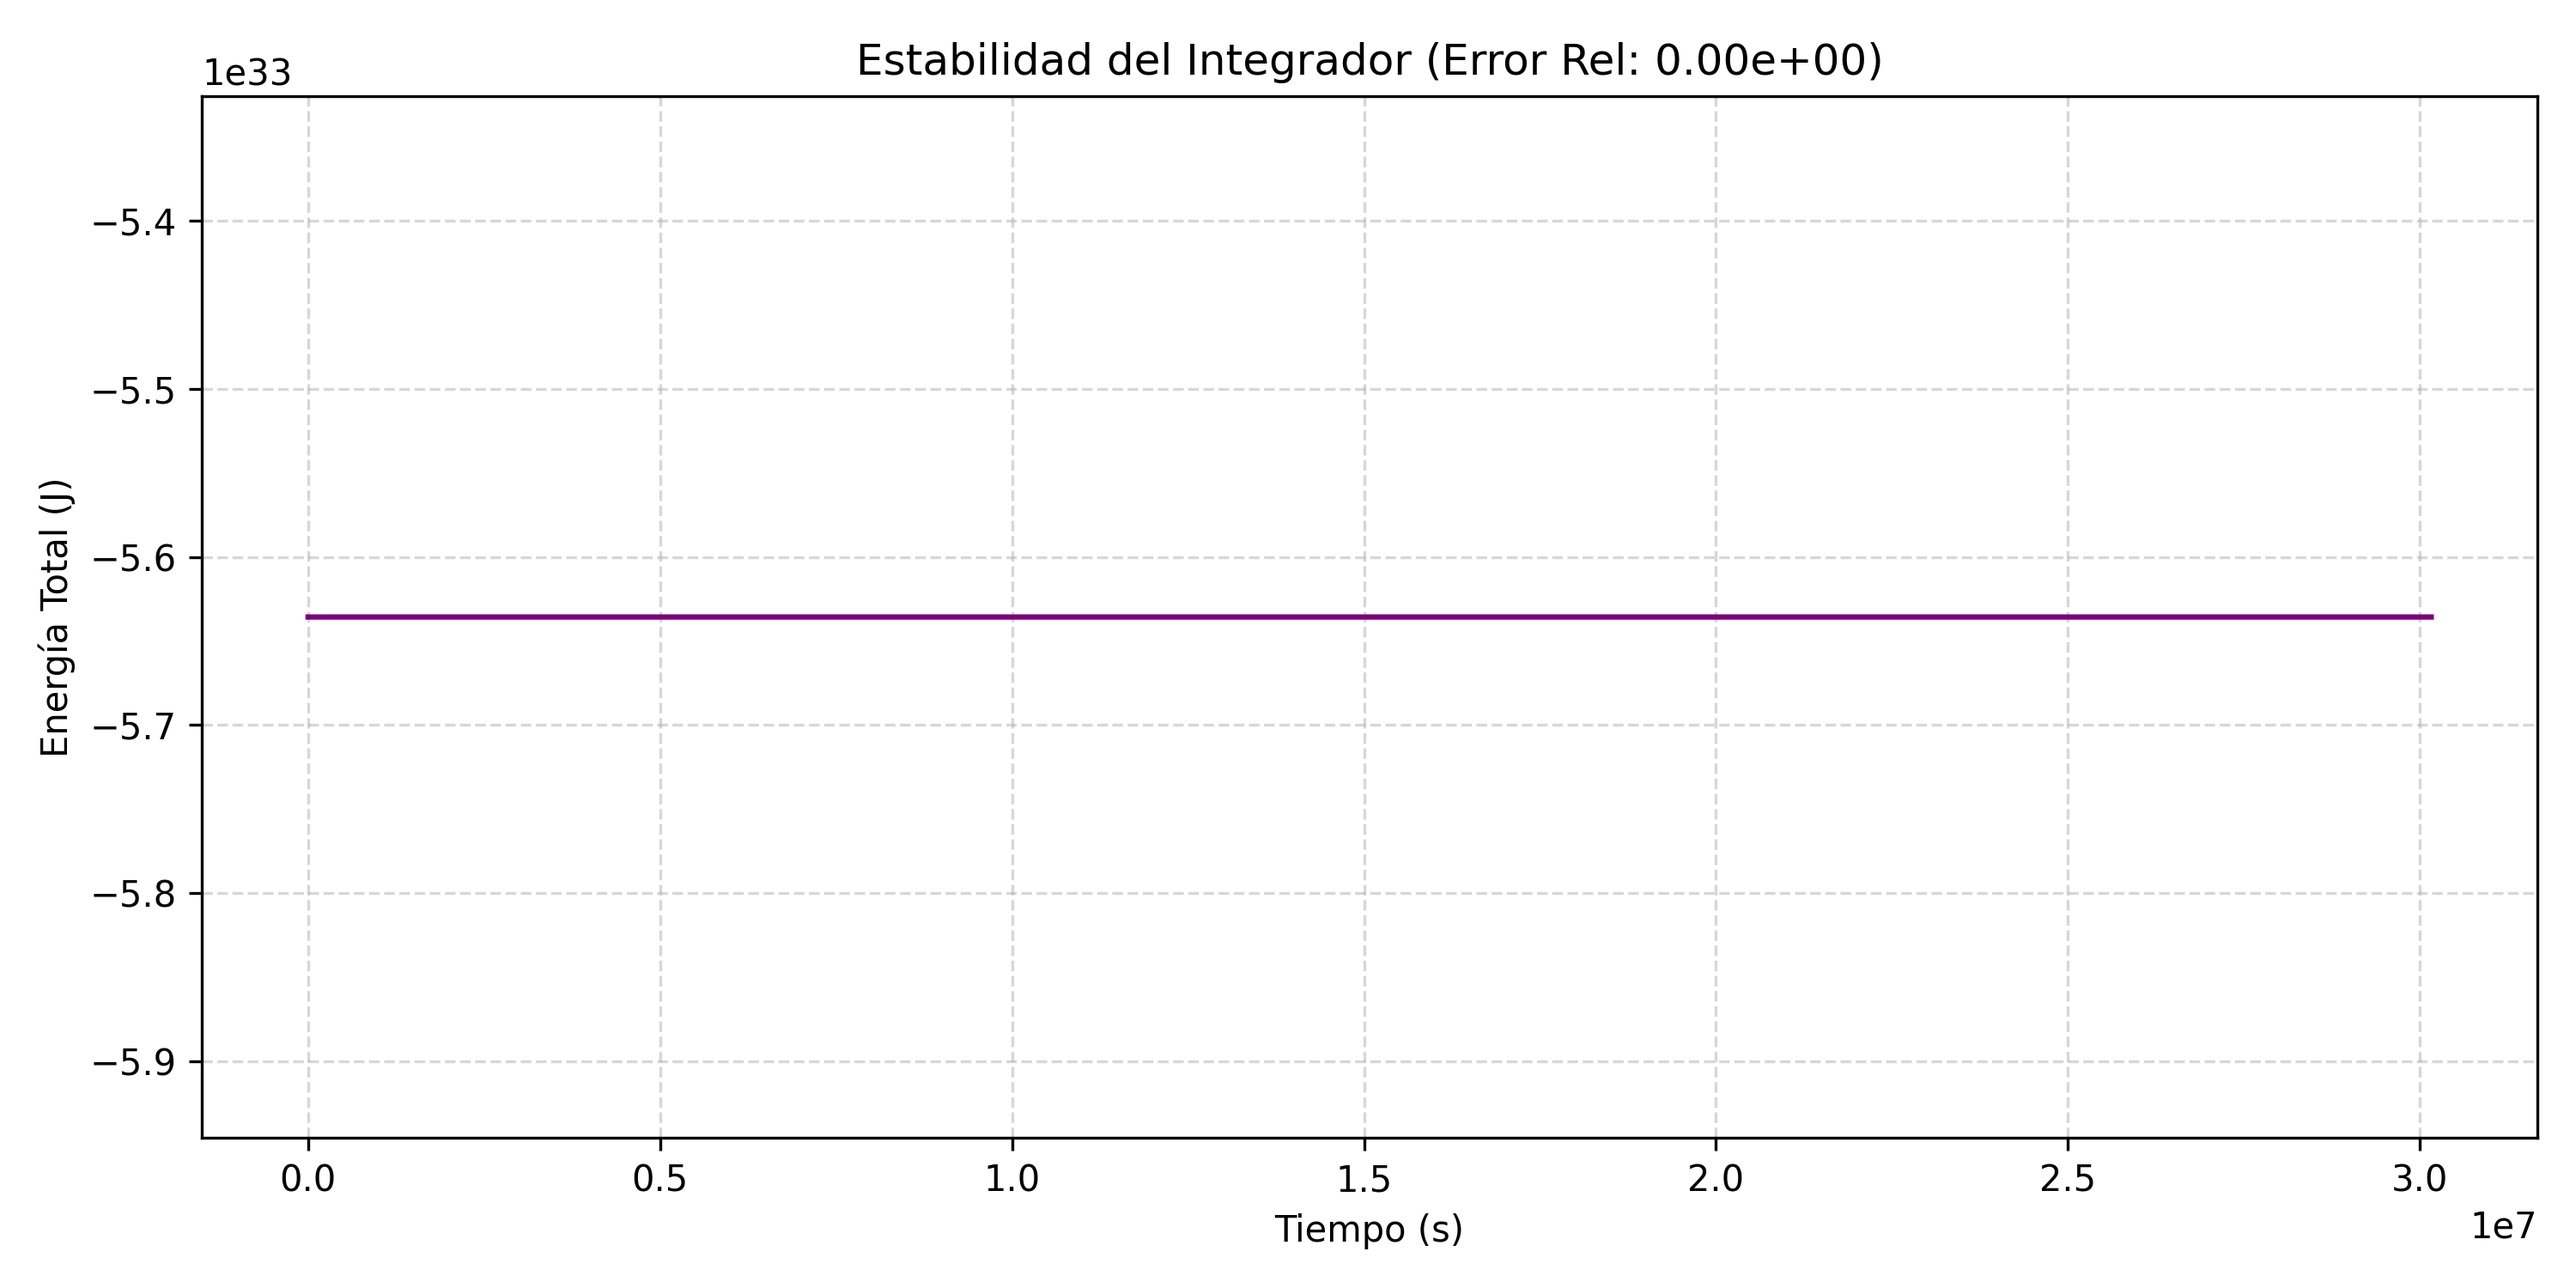
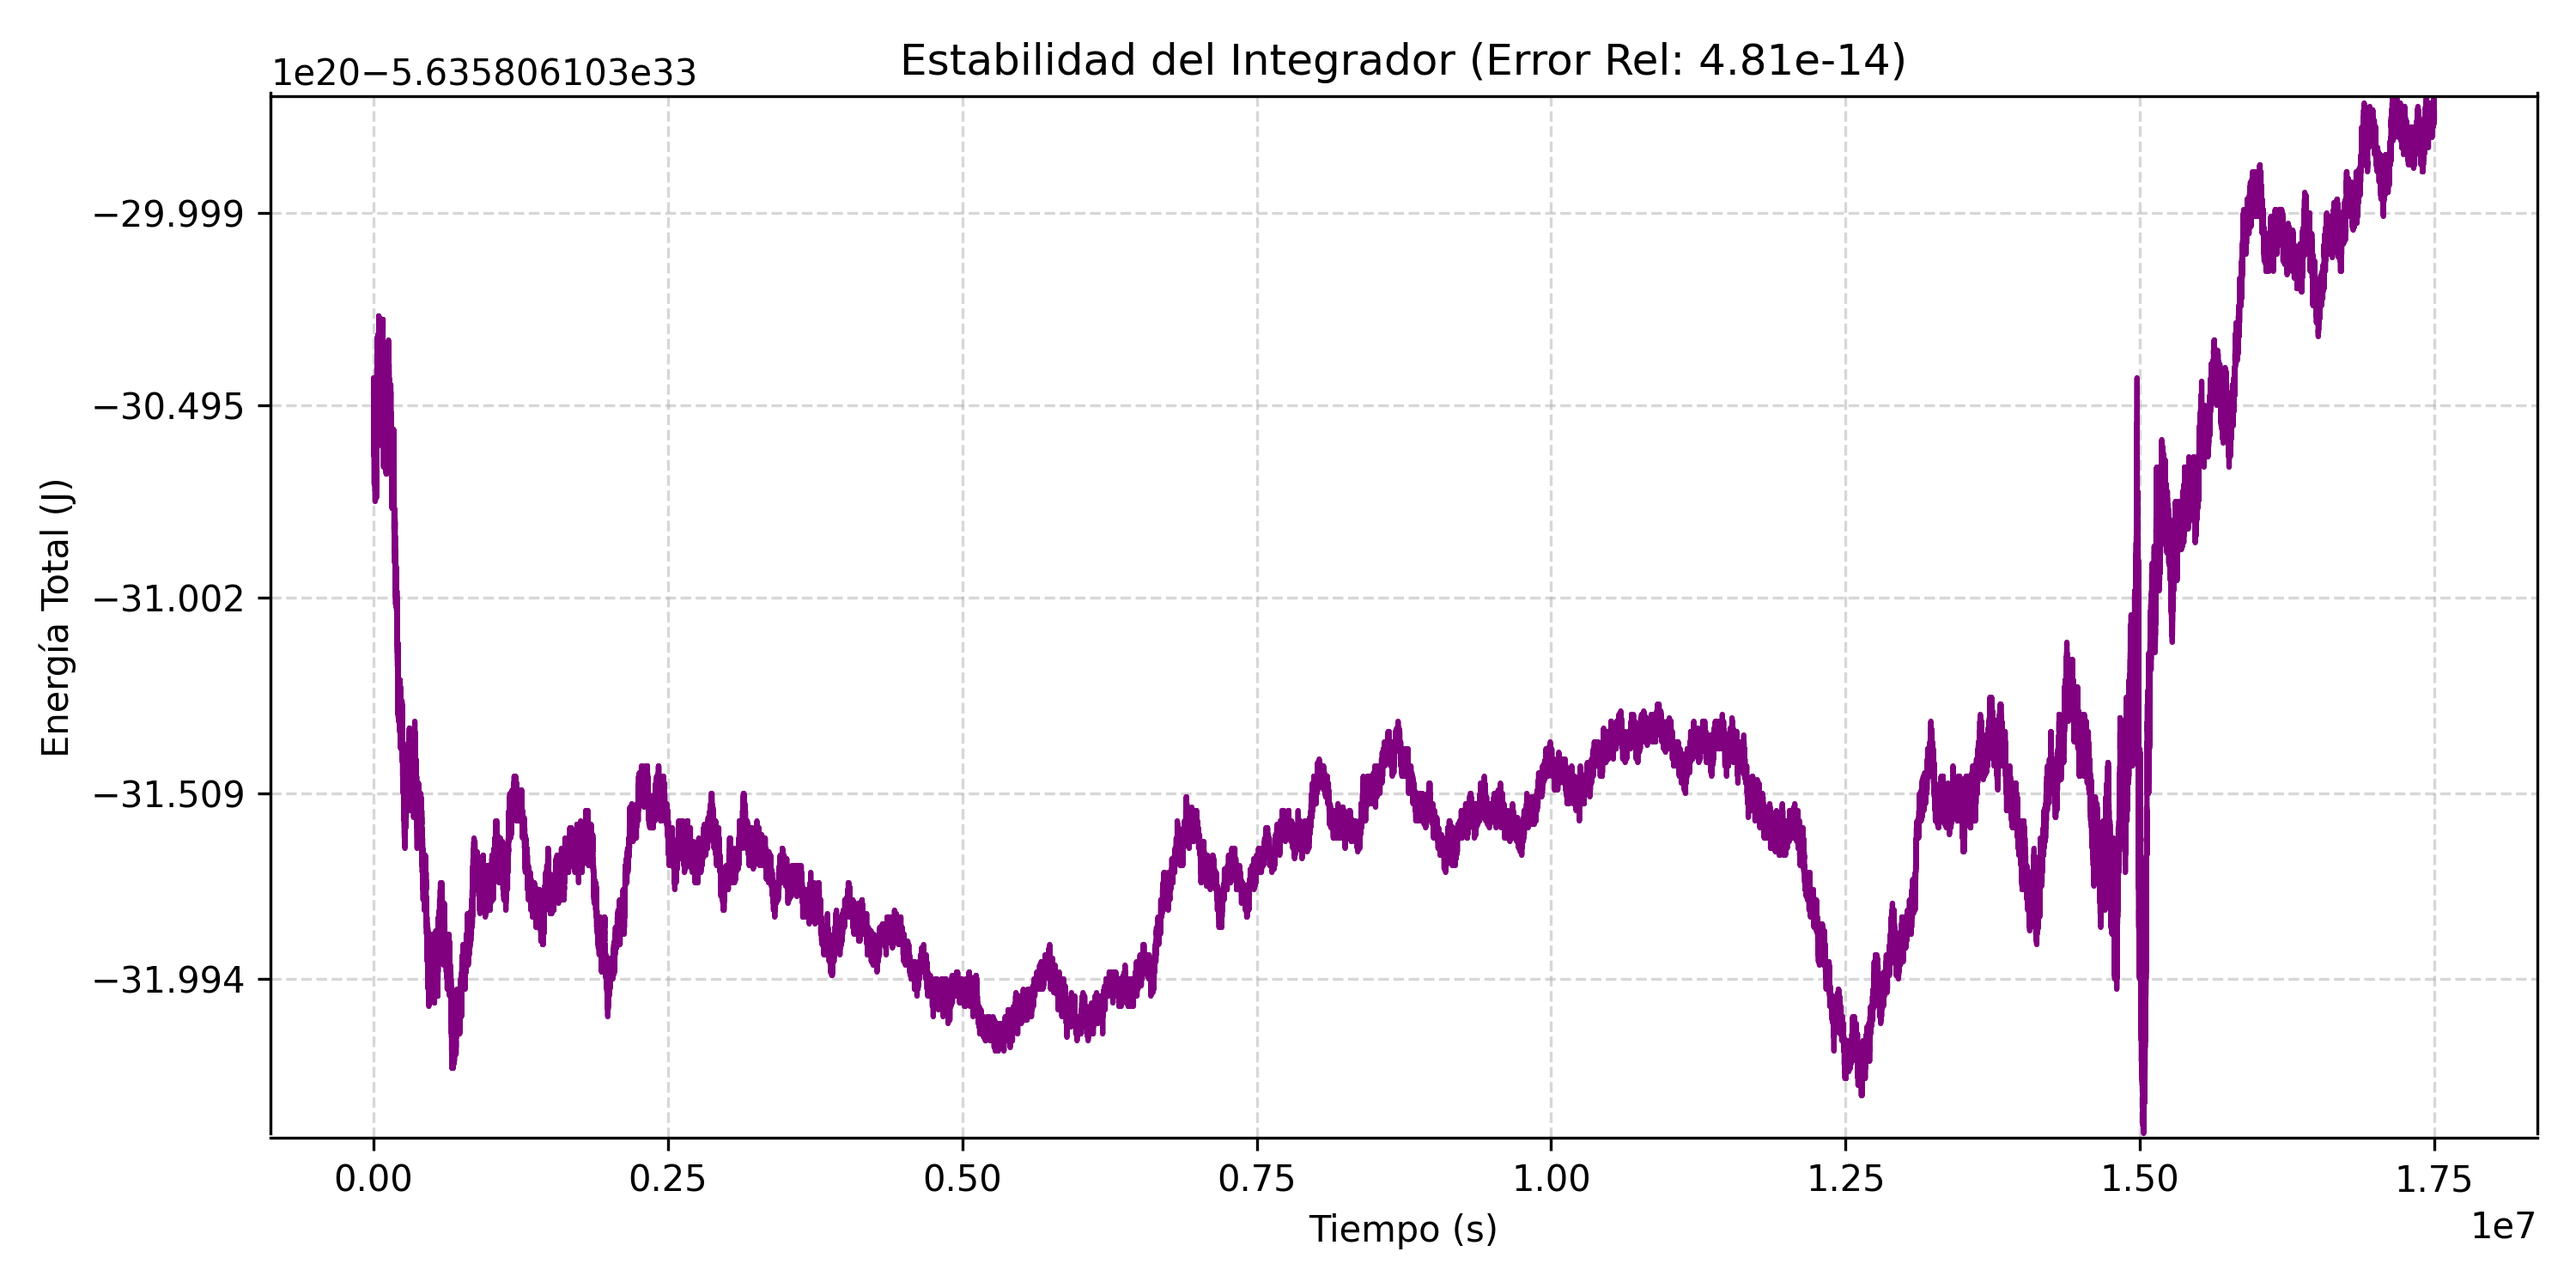
add animation

diff --git a/src/integrator.py b/src/integrator.py
@@ -97,18 +97,19 @@ def calculoOrbitas(initPos,initVel,masas,tiempoSim,dtFactor,G,debug=False):
         velActual = extraerVelocidadesVectorEstado(vectorEstado,dim,N)
         posActual = extraerPosicionesVectorEstado(vectorEstado,dim,N)
         velNaveNorm = (velActual[-1] @ velActual[-1])**.5
-        if velNaveNorm > 1e-9:
-            dt = dtFactor*distanciaMinimaUltimoCuerpo(posActual)#/velNaveNorm
+        rmin = distanciaMinimaUltimoCuerpo(posActual)
+        if rmin*dtFactor > 1e2:
+            dt = dtFactor*rmin/velNaveNorm
         else:
             dt = 100.0
         nextPos, nextVel = stepRungeKutta4(posActual,velActual,masas,G,dt)
         stepNumber += 1
         timePassed += dt
-        if debug and stepNumber%1e3==0:
+        if debug and stepNumber%1e2==0:
             print(
-                f"\rtSim: {int(timePassed/3600):7}h.\ttimeStep:{int(stepNumber/1000):7}e3.\tdt: {int(dt):10}", 
+                f"\rtSim: {int(timePassed/3600):7}h.    timeStep:{int(stepNumber/100):7}e2.    rmin: {int(rmin):15}.    shipVel:{int(velNaveNorm):15}", 
                 end="")
-        # H = calculoHamiltoniano(nextPos,nextVel,masas,G)
+        H = calculoHamiltoniano(nextPos,nextVel,masas,G)
         naveH = calculoHamiltonianoNave(nextPos,nextVel,masas,G)
         historial.append(
             [timePassed,H,naveH, *nextPos.flatten(), *nextVel.flatten()]
@@ -125,9 +126,6 @@ def graficarTrayectorias(historial, nombres=None, assets="assets/"):
     """
     dim = 3
     total_cols = historial.shape[1]
-    
-    # AJUSTE DE INDICE: 
-    # Restamos 3 columnas iniciales: Tiempo, H_total, H_nave
     n_cuerpos = int((total_cols - 3) / 2 / dim)
 
     if nombres is None:
@@ -140,7 +138,6 @@ def graficarTrayectorias(historial, nombres=None, assets="assets/"):
     colores = ['black', 'orange', 'blue', 'red', 'gray', 'green', 'purple']
 
     for i in range(n_cuerpos):
-        # El índice de datos empieza ahora en 3
         idx_x = 3 + i * dim
         idx_y = idx_x + 1
         
@@ -148,7 +145,6 @@ def graficarTrayectorias(historial, nombres=None, assets="assets/"):
         y = historial[:, idx_y]
         
         color = colores[i % len(colores)]
-        # Estilo: la nave (último cuerpo) va en punteado
         es_nave = (i == n_cuerpos - 1)
         estilo = '--' if es_nave else '-'
         grosor = 1.5 if es_nave else 2
@@ -172,20 +168,87 @@ def graficarTrayectorias(historial, nombres=None, assets="assets/"):
     print(f"Guardado: {fichero_orbitas}")
     # plt.show() # -----------------------------------------------------------------
 
-    # Extraer datos comunes de tiempo
     tiempo = historial[:, 0]
+
+    # ==========================================
+    # GRÁFICA: TRAYECTORIAS ESPACIO-TIEMPO (X-Y-t)
+    # ==========================================
+    fig = plt.figure(figsize=(12, 10))
+    ax = fig.add_subplot(111, projection='3d') # Creamos un eje tridimensional
+
+    colores = ['black', 'orange', 'blue', 'red', 'gray', 'green', 'purple']
+
+    # Extraemos el vector de tiempo
+    t = historial[:, 0]
+
+    for i in range(n_cuerpos):
+        # El índice de datos (misma lógica que tu código)
+        idx_x = 3 + i * dim
+        idx_y = idx_x + 1
+
+        x = historial[:, idx_x]
+        y = historial[:, idx_y]
+
+        color = colores[i % len(colores)]
+
+        # Estilo: la nave (último cuerpo) va en punteado
+        es_nave = (i == n_cuerpos - 1)
+        estilo = '--' if es_nave else '-'
+        grosor = 1.5 if es_nave else 2
+
+        # --- CAMBIO PRINCIPAL: PLOT 3D (X, Y, TIEMPO) ---
+        # Ponemos el tiempo en el eje Z para ver la espiral de evolución
+        ax.plot(x, y, t, color=color, linestyle=estilo, linewidth=grosor, label=nombres[i], alpha=0.8)
+
+        # Marcador de inicio (t=0)
+        ax.scatter(x[0], y[0], t[0], marker='.', color=color, s=20, alpha=0.5)
+
+        # Marcador final (t actual)
+        marker = '*' if i == 0 else 'o'
+        # Nota: scatter usa 's' para el tamaño (area), plot usa 'markersize'
+        size = 100 if i == 0 else 40 
+        ax.scatter(x[-1], y[-1], t[-1], marker=marker, color=color, s=size)
+
+    # Etiquetas
+    ax.set_xlabel('Posición X (m)')
+    ax.set_ylabel('Posición Y (m)')
+    ax.set_zlabel('Tiempo (s)') # Eje vertical
+
+    ax.set_title(f'Evolución Espacio-Temporal (t = {t[-1]:.2e} s)')
+    ax.legend()
+
+    ax.view_init(elev=20, azim=-45) 
+
+    max_range = np.array([x.max()-x.min(), y.max()-y.min()]).max() / 2.0
+    mid_x = (x.max()+x.min()) * 0.5
+    mid_y = (y.max()+y.min()) * 0.5
+
+    ax.set_xlim(mid_x - max_range, mid_x + max_range)
+    ax.set_ylim(mid_y - max_range, mid_y + max_range)
+
+    ax.set_box_aspect((1, 1, 1.5)) 
+    plt.tight_layout()
+
+    fichero_orbitas_3d = assets + "orbitas_tiempo_3d.png"
+    plt.savefig(fichero_orbitas_3d, dpi=300)
+    print(f"Guardado: {fichero_orbitas_3d}")
+    # plt.show()
 
     # ==========================================
     # GRÁFICA 2: HAMILTONIANO TOTAL (SISTEMA)
     # ==========================================
     hamiltoniano = historial[:, 1]
     h0 = hamiltoniano[0]
-    # Evitar división por cero si H0 es 0 (raro, pero posible)
-    var_relativa = (np.max(hamiltoniano) - np.min(hamiltoniano)) / (np.abs(h0) if h0!=0 else 1)
+    # Evitar división por cero si H0 es 0
+    Hmin = np.min(hamiltoniano)
+    Hmax = np.max(hamiltoniano)
+    var_relativa = (Hmax - Hmin) / (np.abs(h0) if h0!=0 else 1)
 
     plt.figure(figsize=(10, 5))
     plt.plot(tiempo, hamiltoniano, color='purple', linewidth=1.5)
     
+    plt.ylim(Hmin, Hmax)
+
     plt.xlabel('Tiempo (s)')
     plt.ylabel('Energía Total (J)')
     plt.title(f'Estabilidad del Integrador (Error Rel: {var_relativa:.2e})')
@@ -200,13 +263,11 @@ def graficarTrayectorias(historial, nombres=None, assets="assets/"):
     # ==========================================
     # GRÁFICA 3: ENERGÍA MECÁNICA NAVE
     # ==========================================
-    # Esta es la columna nueva (índice 2)
     nave_H = historial[:, 2] 
     
     plt.figure(figsize=(10, 5))
     plt.plot(tiempo, nave_H, color='teal', linewidth=1.5, label='Energía Nave')
-    
-    # Línea de referencia en 0 (Límite de escape)
+
     plt.axhline(0, color='red', linestyle='--', alpha=0.7, label='Límite de Escape (E=0)')
     
     plt.xlabel('Tiempo (s)')
@@ -214,8 +275,7 @@ def graficarTrayectorias(historial, nombres=None, assets="assets/"):
     plt.title('Evolución de Energía de la Nave')
     plt.legend()
     plt.grid(True, alpha=0.5, linestyle='--')
-    
-    # Añadimos anotación del estado final
+
     estado_final = "ESCAPANDO" if nave_H[-1] >= 0 else "ORBITANDO"
     plt.text(tiempo[-1], nave_H[-1], f" {estado_final}", verticalalignment='bottom')
 
@@ -247,7 +307,7 @@ def optimizationStepSlingshot(faseVenus,deltaVelNave,tiempoSim,dtFactor,debug=Fa
     velocidadesIniciales = np.array(velocidadesIniciales)
     resultados = calculoOrbitas(posicionesIniciales,velocidadesIniciales,masas,tiempoSim,dtFactor,G,debug)
     varHNave = resultados[-1,2] - resultados[0,2]
-    return varHNave, faseVenus, max(resultados[:,2]), deltaVelNave, resultados
+    return varHNave, faseVenus, deltaVelNave, resultados
 
 def graficarSuperficieOptimizacion(min_fase,max_fase,min_dv,max_dv,resFase,resDV,dtFactor,tiempoSim,debug=False, assets="assets/"):
     print("Iniciando cálculo de superficie...")

diff --git a/src/animation.py b/src/animation.py
@@ -1,0 +1,130 @@
+import matplotlib.pyplot as plt
+from matplotlib.animation import FuncAnimation
+import numpy as np
+import integrator as ing
+
+dtFact = 1e-3
+tSim = 2e7
+_,_,_,historial = ing.optimizationStepSlingshot(5.333,-4000,tSim,dtFact,True)
+n_cuerpos = 4
+dim = 3
+assets = "assets/"
+
+
+# Configuración del vídeo final
+FPS = 120                # Frames por segundo (fluidez)
+DURACION_DESEADA = 10   # ¿Cuántos segundos reales quieres que dure el GIF?
+n_frames_video = FPS * DURACION_DESEADA
+
+# Extraemos el tiempo original (que tiene dt variable)
+t_original = historial[:, 0]
+t_inicio = t_original[0]
+t_final = t_original[-1]
+
+# Creamos un NUEVO vector de tiempo que avanza exactamente igual paso a paso
+t_interpolado = np.linspace(t_inicio, t_final, n_frames_video)
+
+# Creamos una nueva matriz 'historial_smooth' donde guardaremos los datos interpolados
+# Tiene el tamaño: (número de frames x número de columnas originales)
+historial_smooth = np.zeros((n_frames_video, historial.shape[1]))
+historial_smooth[:, 0] = t_interpolado
+
+print("Re-muestreando datos para velocidad constante...")
+
+# Interpolamos cada columna de posición (X, Y, etc.) al nuevo tiempo
+for col in range(1, historial.shape[1]):
+    # np.interp(donde_quiero_saber, donde_tengo_datos, valor_de_los_datos)
+    historial_smooth[:, col] = np.interp(t_interpolado, t_original, historial[:, col])
+
+# AHORA USAREMOS 'historial_smooth' PARA ANIMAR EN LUGAR DE 'historial'
+data_anim = historial_smooth 
+
+# ==========================================
+# 2. CONFIGURACIÓN DE EJES Y FIGURA
+# ==========================================
+fig, ax = plt.subplots(figsize=(10, 10))
+colores = ['black', 'orange', 'blue', 'red', 'gray', 'green', 'purple']
+
+# Calcular límites fijos basados en los datos (usamos data_anim)
+all_x = []
+all_y = []
+for i in range(n_cuerpos):
+    idx_x = 3 + i * dim
+    idx_y = idx_x + 1
+    all_x.extend(data_anim[:, idx_x])
+    all_y.extend(data_anim[:, idx_y])
+
+# Margen del 5%
+rango_max = max(max(all_x) - min(all_x), max(all_y) - min(all_y)) / 2 * 1.05
+centro_x = (max(all_x) + min(all_x)) / 2
+centro_y = (max(all_y) + min(all_y)) / 2
+
+ax.set_xlim(centro_x - rango_max, centro_x + rango_max)
+ax.set_ylim(centro_y - rango_max, centro_y + rango_max)
+ax.set_aspect('equal')
+ax.grid(True, alpha=0.3)
+ax.set_xlabel('Posición X (m)')
+ax.set_ylabel('Posición Y (m)')
+ax.set_title("Trayectorias (Velocidad de simulación constante)")
+
+# Inicializar objetos gráficos
+lineas = []
+puntos = []
+
+for i in range(n_cuerpos):
+    color = colores[i % len(colores)]
+    es_nave = (i == n_cuerpos - 1)
+    estilo = '--' if es_nave else '-'
+    
+    ln, = ax.plot([], [], color=color, linestyle=estilo, linewidth=1, alpha=0.6)
+    lineas.append(ln)
+    
+    marker = '*' if i == 0 else 'o'
+    size = 12 if i == 0 else 8
+    pt, = ax.plot([], [], marker=marker, color=color, markersize=size)
+    puntos.append(pt)
+
+time_text = ax.text(0.02, 0.95, '', transform=ax.transAxes)
+
+# ==========================================
+# 3. FUNCIÓN DE ACTUALIZACIÓN
+# ==========================================
+def update(frame_idx):
+    # frame_idx va de 0 a n_frames_video
+    
+    t_actual = data_anim[frame_idx, 0]
+    time_text.set_text(f'Tiempo = {t_actual:.2e} s')
+    
+    for i in range(n_cuerpos):
+        idx_x = 3 + i * dim
+        idx_y = idx_x + 1
+        
+        # Para la estela, tomamos desde el inicio hasta el frame actual
+        # data_anim ya tiene el paso correcto, así que la estela crece suavemente
+        x_trail = data_anim[:frame_idx, idx_x]
+        y_trail = data_anim[:frame_idx, idx_y]
+        
+        x_curr = data_anim[frame_idx, idx_x]
+        y_curr = data_anim[frame_idx, idx_y]
+        
+        lineas[i].set_data(x_trail, y_trail)
+        puntos[i].set_data([x_curr], [y_curr])
+        
+    return lineas + puntos + [time_text]
+
+# ==========================================
+# 4. GENERAR GIF
+# ==========================================
+# interval = 1000ms / FPS
+intervalo_ms = int(1000 / FPS) 
+
+ani = FuncAnimation(fig, update, frames=n_frames_video, interval=intervalo_ms, blit=True)
+
+fichero_gif = assets + "animacion_constante.gif"
+print(f"Guardando animación ({n_frames_video} frames)...")
+
+# Usar 'pillow' es estándar, pero si tienes ffmpeg instalado será más rápido
+ani.save(fichero_gif, writer='pillow', fps=FPS)
+
+print(f"Guardado: {fichero_gif}")
+plt.show()

diff --git a/src/engine.py b/src/engine.py
@@ -2,19 +2,19 @@ import numpy as np
 import matplotlib.pyplot as plt
 import integrator as ing
 
-dtFact = 1e-6
-tSim = 3e7
+dtFact = 1e-3
+tSim = 1.75e7
 
-_,_,_,_,hist = ing.optimizationStepSlingshot(5.3328,-4000,tSim,dtFact,True)
+_,_,_,hist = ing.optimizationStepSlingshot(5.333,-4000,tSim,dtFact,True)
 ing.graficarTrayectorias(hist)
 
 # barrido fases
 
-# minF, maxF = 5.33235, 5.33245
-# fases = np.linspace(minF,maxF,10)
+# minF, maxF = 5.3322, 5.3326
+# fases = np.linspace(minF,maxF,20)
 # maximH = []
 # for fase in fases:
-#     maximH.append(ing.optimizationStepSlingshot(fase,-4000,tSim,dtFact,True)[2])
+#     maximH.append(ing.optimizationStepSlingshot(fase,-4000,tSim,dtFact,True)[0])
 # maximH = np.array(maximH)
 # plt.plot(fases,maximH)
 # plt.show()
